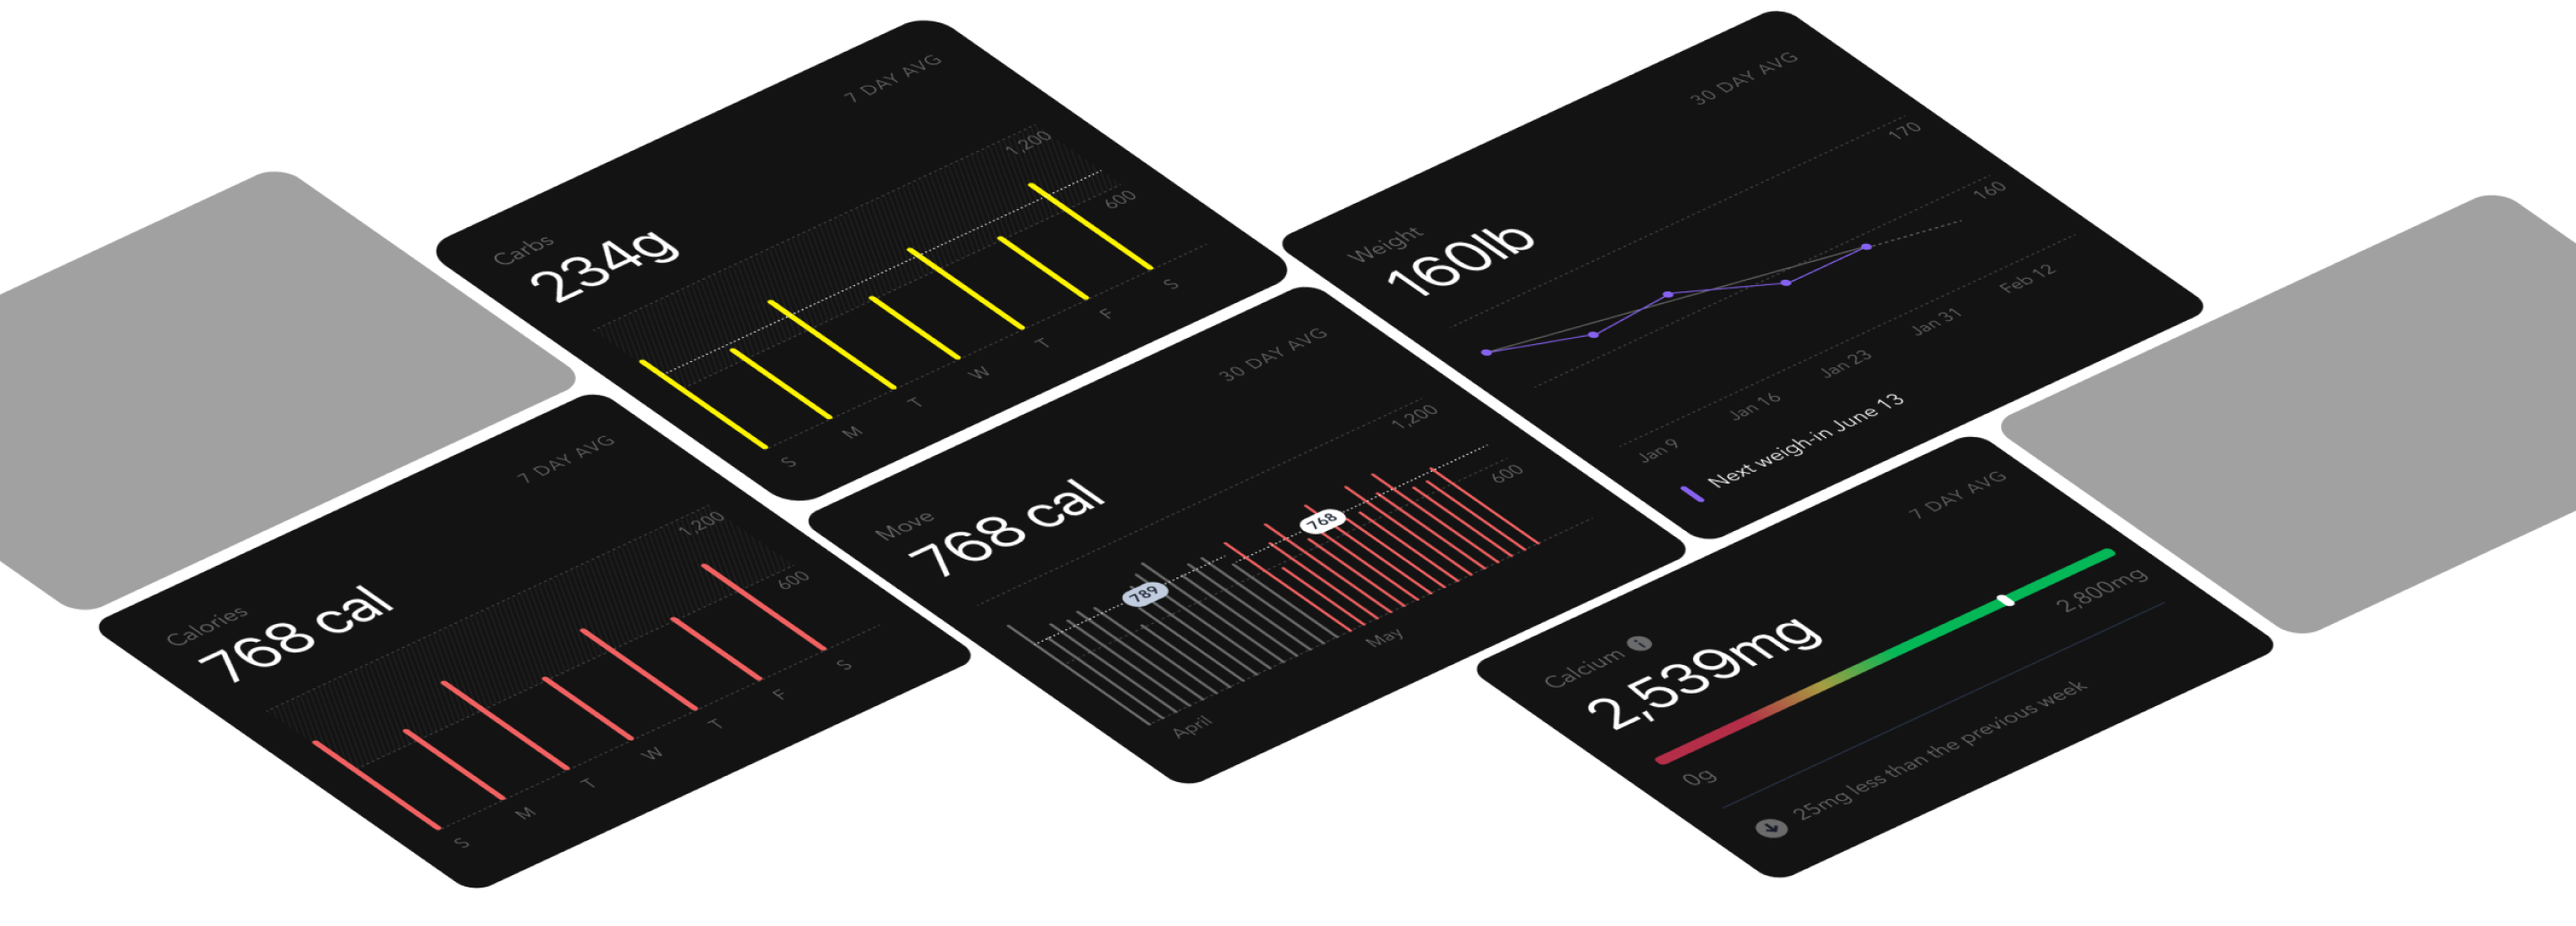
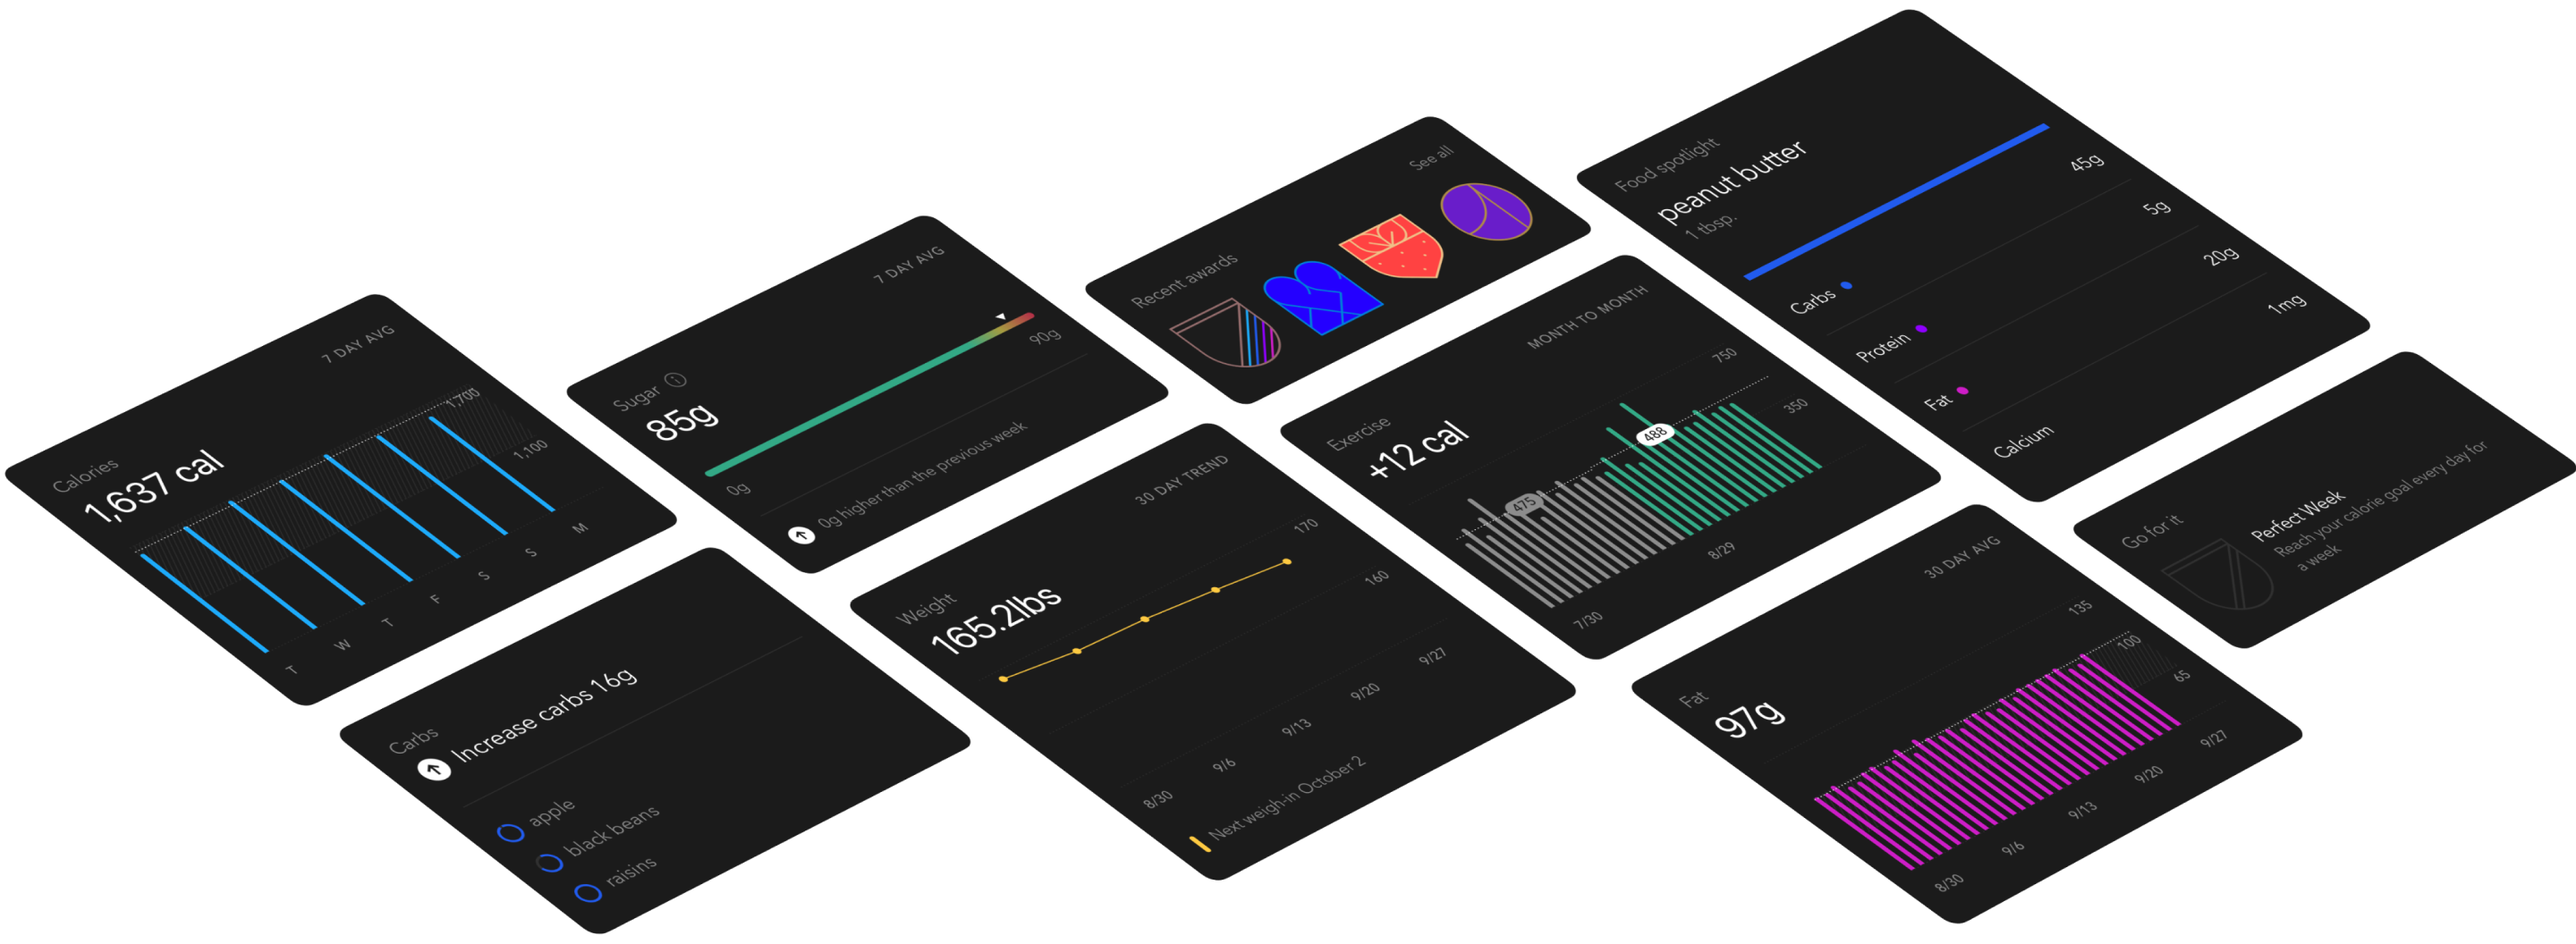
Final assets

diff --git a/css/screen.css b/css/screen.css
@@ -792,9 +792,9 @@ p {
   .dashboard .left-content {
     padding-bottom: 2em; }
   .dashboard .full-width {
-    padding-top: 4em;
-    width: 180%;
-    margin-left: -40%; }
+    padding-top: 2em;
+    width: 160%;
+    margin-left: -30%; }
   .dashboard .content-wrapper:first-child {
     border-bottom: 1px solid #222;
     padding-bottom: 4em; }
@@ -1556,8 +1556,10 @@ input[type="submit"] {
 
   .dashboard .full-width {
     width: 100%;
-    margin-left: 0;
-    padding-top: 8em; }
+    margin: 0 auto;
+    display: block;
+    padding-top: 2em;
+    max-width: 1280px; }
   .dashboard .left-content {
     flex: none; }
     .dashboard .left-content p {
@@ -1622,7 +1624,7 @@ input[type="submit"] {
     .backstory .content-wrapper.border-top h2 {
       max-width: 380px; }
     .backstory .icon-list {
-      padding-top: 8em; }
+      padding-top: 10em; }
 
   .awards .awards-container {
     width: 80%;

diff --git a/css/screen.scss b/css/screen.scss
@@ -271,9 +271,9 @@ p {
   }
 
   .full-width {
-    padding-top: 4em;
-    width: 180%;
-    margin-left: -40%;
+    padding-top: 2em;
+    width: 160%;
+    margin-left: -30%;
   }
 
   .content-wrapper:first-child {
@@ -1375,8 +1375,10 @@ input[type="submit"] {
   .dashboard {
     .full-width {
       width: 100%;
-      margin-left: 0;
-      padding-top: 8em;
+      margin: 0 auto;
+      display: block;
+      padding-top: 2em;
+      max-width: 1280px;
     }
 
     .left-content {
@@ -1496,7 +1498,7 @@ input[type="submit"] {
     }
 
     .icon-list {
-      padding-top: 8em;
+      padding-top: 10em;
     }
   }
 
